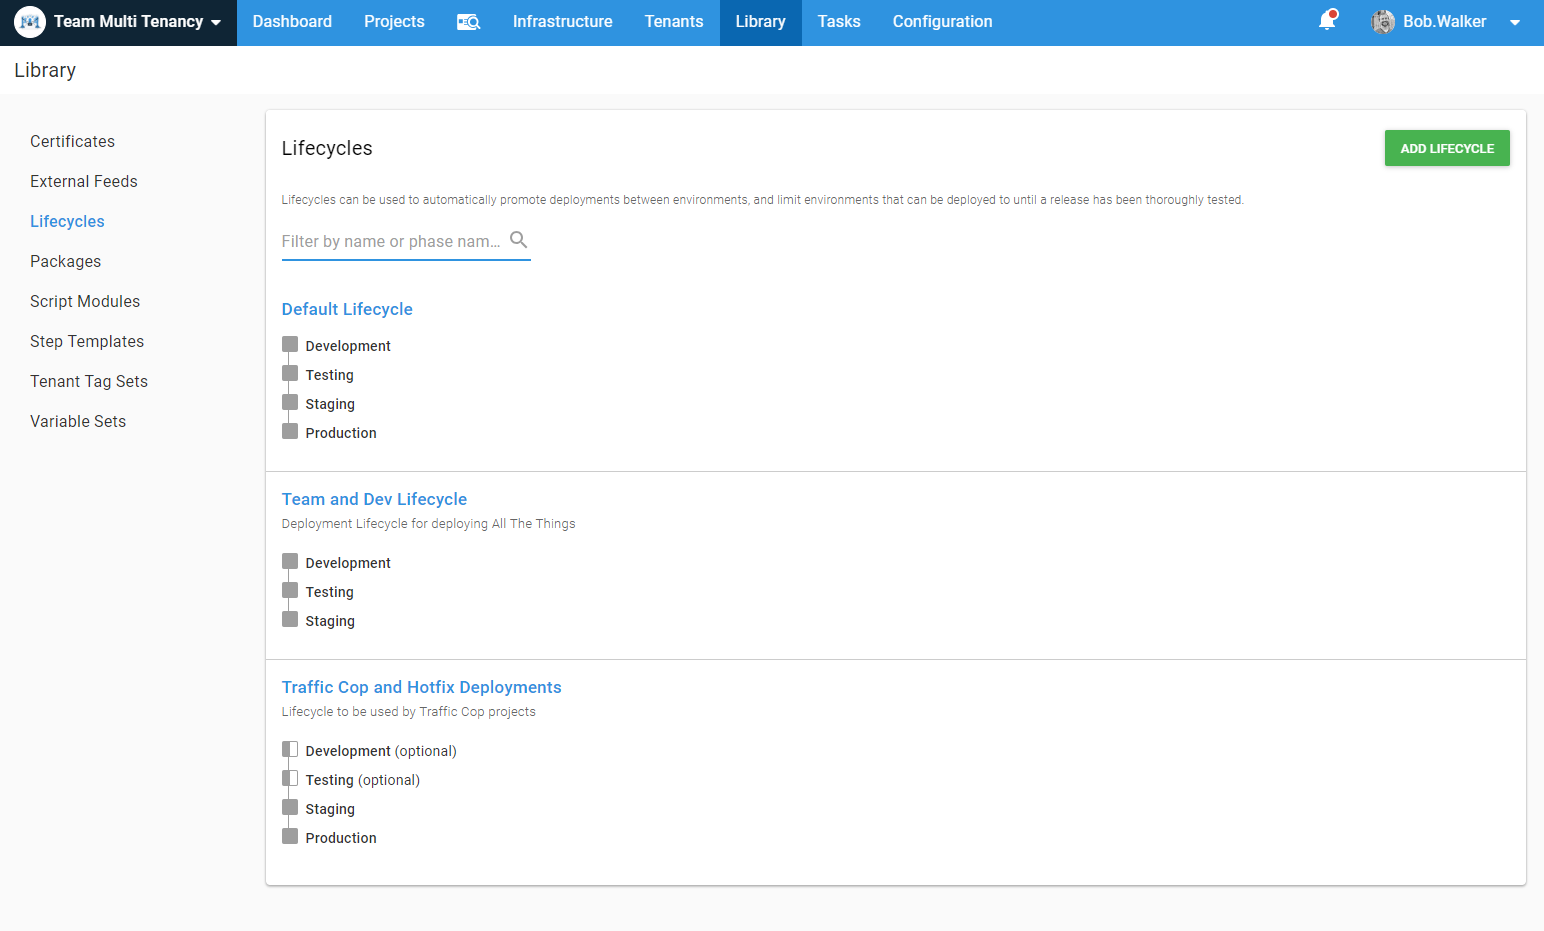
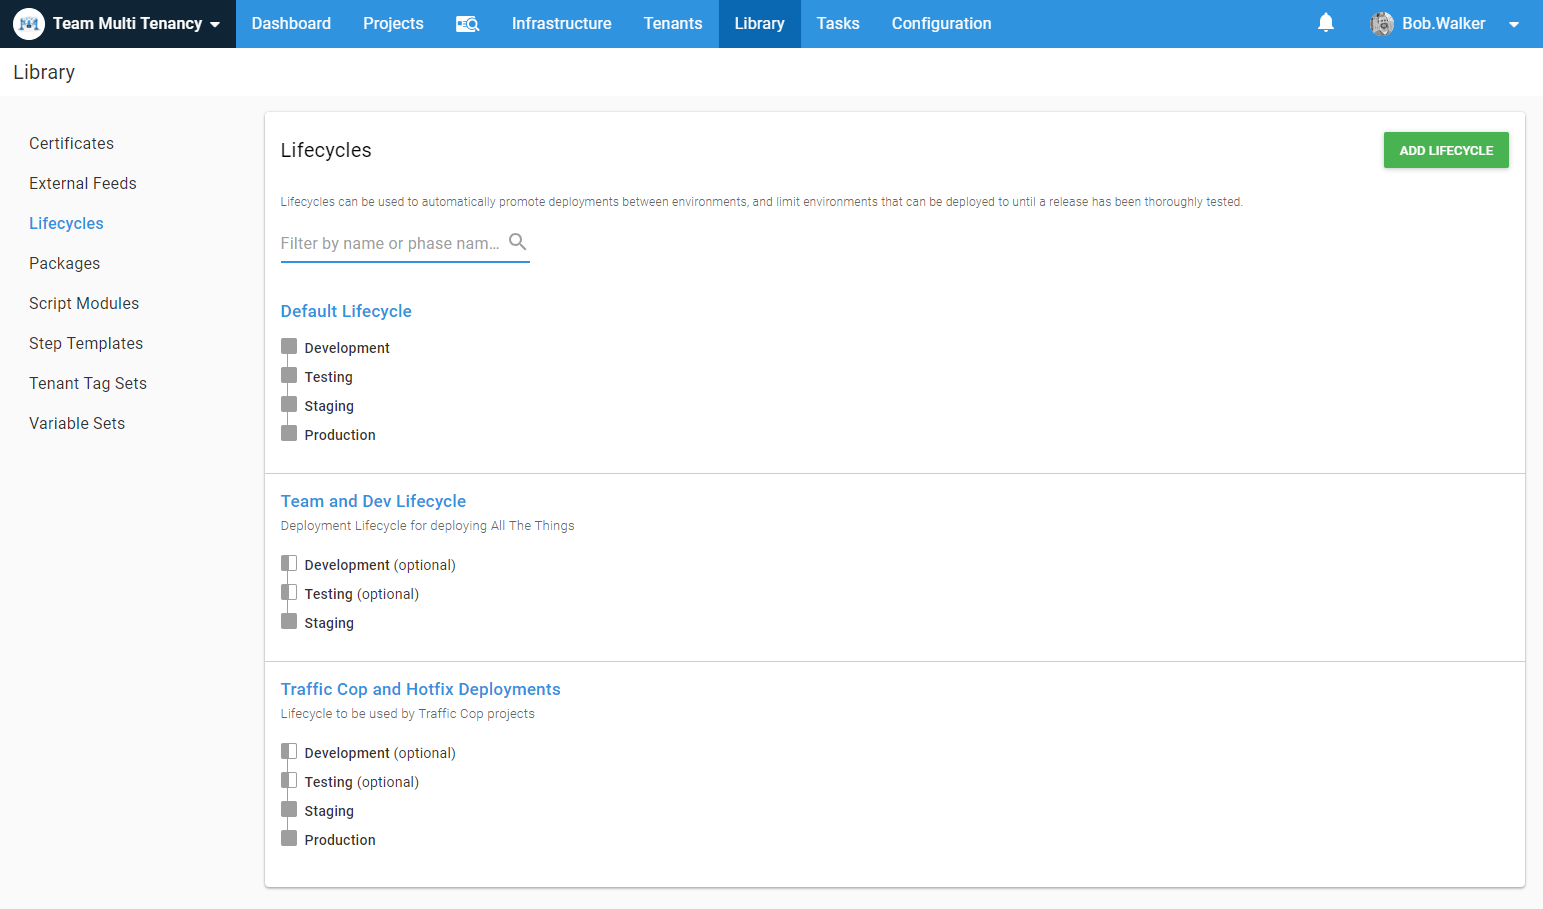
Second draft

diff --git a/blog/2019-04/multi-tenancy-teams/index.md b/blog/2019-04/multi-tenancy-teams/index.md
@@ -10,7 +10,7 @@ tags:
  - Multi-Tenancy
 ---
 
-Recently I had a chance to meet with a customer to talk about their development and deployment process.  Full disclosure: I'm going to paraphrase the meeting a bit, so my apologies to them if I grossly simplify their concerns.  The customer had a common scenario.  They have three teams of developers and four "main" applications.  There are some dependencies between the four main applications.  Application A might call Application B which calls Application C and so on.  There isn't a clear "line in the sand" on which team can work on which application.  At any given point, two teams might be working on the same application.  For example:
+Recently I had a chance to meet with a customer to talk about their development and deployment process.  Full disclosure: I'm going to paraphrase the meeting a bit, my apologies to them if they are reading this and if I grossly simplify their concerns.  They have three teams of developers and four "main" applications.  There are some dependencies between the four main applications.  Application A might call Application B which calls Application C and so on.  There isn't a clear "line in the sand" on which team can work on which application.  At any given point, two teams might be working on the same application.  For example:
 
 - Team A is adding a new feature to Application A
 - Team B is making some bug fixes to Application A
@@ -18,9 +18,9 @@ Recently I had a chance to meet with a customer to talk about their development 
 
 Their concern was how Team A could push up changes to Application A for their QA engineers to test and business owners to verify without stepping all over Team B's work.  As an added kicker, how can Team C make changes to their application without stopping Team B from pushing a set of bug fixes through?
 
-I ran into this scenario multiple times at different jobs before working at Octopus Deploy.  The tooling, and the collective lack of knowledge, at the time, led to some, let's say, unusual solutions.  Team C was told that whatever changes they made had to be backwards compatible from the start.  Hide it behind a feature flag if you must.  You cannot stop work for Teams A and B.  Team A was told to hold off pushing their changes until Team B had finished their work.  That is just three teams.  I've worked for companies with 10+ development teams.  Imagine trying to juggle all that!
+I ran into this scenario multiple times at different jobs before working at Octopus Deploy.  At the time, the tooling, and the collective lack of knowledge, led to some, let's say, unusual solutions.  Team C was told that whatever changes they made had to be backwards compatible.  Hide it behind a feature flag if you must.  You cannot stop work for Teams A and B.  Team A was told to hold off pushing their changes until Team B had finished their work.  Depending on how long that took, Team A might try to sneak in a few minor changes as well, outside the scope of their feature.  That is just three teams.  I've worked for companies with 10+ development teams.  Imagine trying to juggle all that!
 
-The final kicker is sometimes a developer will be working on a spike or another change, and they want to get feedback from someone.  This feedback could come from another developer, or it could come from a business owner.  In the past when I did this, I had the developer and/or business owner connect directly to my machine.  Connecting directly to my machine was a significant pain on my end as I could be in the middle of tweaking something else and the code might not be in a usable state.  It would've been nice to have someplace I could push the change without breaking everyone.
+The final kicker is sometimes a developer will be working on a spike or another change, and they want to get feedback from someone.  This feedback could come from another developer, or it could come from a business owner.  In the past when I did this, I had the developer and/or business owner connect directly to my machine.  Connecting directly to my machine was a significant pain for me as I could be in the middle of tweaking something else and the code might not be in a usable state.  It would've been nice to have someplace I could push to a development server.  At the time if I did that it would go up to the "main" development server and potentially break things.  
 
 A much more ideal solution is each team, as well as developers, get their own "sandbox" hosting all of the applications.  
 
@@ -29,25 +29,33 @@ A much more ideal solution is each team, as well as developers, get their own "s
 - Team A and B are not aware of Team C's changes because they are pointing to their own copy of Application B.  
 - Once Team C's changes have been verified, then Teams A and B will need to update their sandbox to get the latest and greatest changes.
 
-In this article, I am going to walk you through how to configure that using the multi-tenancy feature in Octopus Deploy.
+In this article, I am going to walk you through how to configure a private testing sandbox for teams and developers using the [multi-tenancy feature](https://octopus.com/multi-tenant-deployments) in Octopus Deploy.
 
 **Please Note:** You have to have your entire deployment process automated for this to work.  You can't have your code (C#/JS/TS/PHP/etc.) being deployed through Octopus Deploy while your databases are deployed manually.  
+
+!toc
 
 ## Configuring Octopus Deploy
 
 Before diving into the configuration, let's take a step back and look at some use cases.  Hopefully, at the end of the article, we meet all of them.  
 
 - As a developer, I want to be able to make and push changes to Application B without affecting the work of other teams working on Application A.
-- As a developer working on Application A, I want to be able to pull changes made to Application B in once they are completed and verified.
+- As a developer working on Application A, I want to be able to pull changes made to Application B once they are completed and verified.
 - As a developer, I always want to be able to test what is currently in production in a non-production environment.
 - As a developer, I want to be able to make changes and push them up for verification from a business owner without affecting my team.
 - As a developer on Application A, I want to know what version of Application B I am connecting to and testing against.
 - As a developer, I want to be able to push a hotfix directly to staging without having to go through development or testing first.
 - As a developer, I want to be able to push my team's changes to a testing area where customers can provide feedback.  Getting customer feedback isn't going to happen all the time, but I would like that opportunity.
 
+As stated earlier, we are going to use Octopus Deploy's [multi-tenancy feature](https://octopus.com/multi-tenant-deployments) to solve this.  I chose this solution over creating seperate environments for teams and developers for a few reasons.
+
+1) When you add a new environment you don't know all the variables you need to configure.  With Octopus Deploy's multi-tenancy feature there is a concept of variable templates.  If a tenant is missing a variable there is an indicator in the UI.
+2) It keeps the lifecycle simple.  I am in the camp that any given instance of Octopus Deploy should have 10 or less environments.  
+3) It can scale up as the teams and developers grow.  When someone new starts I can add them as a tenant and get a testing sandbox configured for them in minutes.
+
 ## Tenant Tags
 
-I am going to create a tenant tag set called `Tenant Type` for grouping and organizational purposes.  Based on my use cases, I am going to need three tags in the `Tenant Type` tag set.
+I am going to create a tenant tag set called `Tenant Type` for grouping and organizational purposes.  Based on the use cases, I am going to need three tags in the `Tenant Type` tag set.
 
 - Release (main or master and hotfix)
 - Teams (for the team to test with)
@@ -61,21 +69,21 @@ For my instance, I have two variable sets.  `Global` is to be used across all th
 
 ![](variable-sets.png)
 
-I am going to host all my tenants on the same SQL Server and Web Server used in each environment.  I have one web server for `Development` and two web servers in the `Testing` environments.  That single `Development` web server will host not only the main website but also all my tenant websites.  Each tenant will get their subdomain.  The naming convention I am going to use for tenants assigned to the Teams or Person `Tenant Type` will be [EnvironmentShortName][TenantShortName][ApplicationName].OctopusDemos.com.  For Bob's copy of the OctoFx application in Development, the name will be DevBobOctoFx.OctopusDemos.com.  For release `Tenant Type` the naming convention will be [EnvironmentShortName][ApplicationName].OctopusDemos.com.  The master version of OctoFx in Development will be DevOctoFx.OctopusDemos.com.
+Each environment has their own SQL Server and web servers.  I am going to host my tenants on those servers.  Each tenant will get their subdomain.  The naming convention I am going to use for tenants assigned to the Teams or Person `Tenant Type` will be [EnvironmentShortName][TenantShortName][ApplicationName].OctopusDemos.com.  For example, for Bob's copy of the OctoFx application in Development, the name will be DevBobOctoFx.OctopusDemos.com.  For the release `Tenant Type` the naming convention will be [EnvironmentShortName][ApplicationName].OctopusDemos.com.  The master version of OctoFx in Development will be DevOctoFx.OctopusDemos.com.
 
 I am using the same SQL for both Dev and Testing, so my database names will be rather odd looking at first.  [EnvironmentPrefix]-[TenantShortName]-[ApplicationName] for tenants assigned to the Teams or Person `Tenant Type`.  Bob's copy of the OctoFx database in `Development` would be `d-Bob-OctoFx`.  Tenants assigned to the Release `Tenant Type` will be [EnvironmentPrefix]-[ApplicationName].  The master version of OctoFx in `Development` will be `d-octofx`.
 
-First I am going to create a variable in Global to store the environment short name as well as the environment prefix variable.  
+First I am going to create a couple of variables in Global to store the environment short name as well as the environment prefix variable.  
 
 ![](environment-short-name-global-variable.png)
 
-**Please Note:** I like to use the naming scheme [VariableSet].[Component].[Name] to name my variables.  The naming scheme makes them easier to find when trying to reference them.  Moreover, when looking at all variables for a project, they group a lot better.
+**Please Note:** I like to use the naming scheme [VariableSet].[Component].[Name].  It makes them easier to find when trying to reference them.  Moreover, when looking at all variables for a project, they are easier to find.
 
 Then I am going to jump over to the `Variable Templates` tab and add a new template.  I will need to populate this when I create my tenants and assign them to the projects.
 
 ![](variable-sets-templates.png)
 
-Now I can jump back over variables tab and add two variables, one for the subdomain name and another for the database name.  You can scope variables to tenant tags.
+Now I can jump back over variables tab and add two variables, one for the subdomain name and another for the database name.  You can scope variables to tenant tags.  Make note that I am only scoping one variable to the `Tenant Type` tenant tag.  This is because I want any "normal" release to have the same naming convention, even if the project isn't using tenants.
 
 ![](variable-set-with-scoped-variables.png)
 
@@ -145,11 +153,11 @@ Now is as good as time as any to discuss branching strategies.  The branching st
 - Team Branch ([TeamName]/*): Can only go to Development -> Testing -> Staging.  This branch will have a pre-release tag appended to the package name.
 - Developer Branch ([DeveloperName]/*): Can only go to Development -> Testing.  This branch will have a pre-release tag appended to the package name.
 
-In Octopus Deploy I created the following lifecycles.
+In Octopus Deploy I created the following lifecycles.  The Team and Dev Lifecycle has the `Development` and `Testing` environment set as optional.  This is to give the freedom to pick and choose which environments are updated.
 
 ![](lifecycles-overview.png)
 
-In each project, I added the following channels.
+Each project will have a the following channels to support the various use cases.
 
 ![](channeloverview.png)
 
@@ -328,8 +336,32 @@ So if Derek wanted to bring it over, we would first change the release to my rel
 
 ![](octopusdeploy-derek-bringing-in-release.png)
 
+## Standing up an entire sandbox
+
+So far we have been focused on a single application, OctoFx.  I'm willing to bet you have more than one application in your development shop.  To solve for that, I created a project called `Deploy All The Things`.  The project's lifecycle only allows it to go to staging.  It is intended to be used by tenants with the Person or Team `Tenant Type` tenant tag.  
+
+![](deploy-all-the-things.png)
+
+Right now it is only deploying OctoFx.  In the future it can deploy other applications, and in the order they need to be deployed.
+
+![](deploy-all-the-things-process.png)
+
+One note about the deploy a release step, when you create a release that is when you choose the release version of the child projects.  It is entirely possible with this project to have a release only be deployed to a single tenant on an environment.  
+
+![](deploy-all-the-things-select-release.png)
+
 ## Conclusion
 
-It takes a bit of setup, but it is possible to configure Octopus Deploy, so each team and each developer have their own sandbox to deploy to.  Having a separate sandbox will allow teams and developers to get feedback on in-progress work without having to step all over the main code base.
+It takes a bit of setup, but it is possible to configure Octopus Deploy, so each team and each developer have their own sandbox to deploy to.  Having a separate sandbox will allow teams and developers to get feedback on in-progress work without having to step all over the main code base.  Let's go through the use cases one more time to make sure we solved them.
 
-One final thought, I included a hotfix tenant.  You don't have to include that.  I did that because the customer I was talking to had a separate "hotfix" subdomain in their staging environment.  It made sense for them.  It might not make sense for you.  I would encourage you to test this out for yourself and tweak the process to meet your needs.
+- As a developer, I want to be able to make and push changes to Application B without affecting the work of other teams working on Application A. -> Solved, each team has their own sandbox.  The team working on Application B would push to their sandbox for testing.
+- As a developer working on Application A, I want to be able to pull changes made to Application B once they are completed and verified. -> Solved, the teams can wait until the changes are merged into a release branch and pushed up to the main tenant or they can choose the release created for the tenant and pull that into their sandbox.
+- As a developer, I always want to be able to test what is currently in production in a non-production environment. -> Solved, the main tenant in the non-production environments will only be changed once a feature has been verified in a team sandbox.  The amount of time a change sits in the lower environments on a main tenant should be low since it has already been tested.
+- As a developer, I want to be able to make changes and push them up for verification from a business owner without affecting my team. -> Solved, each developer gets their own tenant, which means they get their own sandbox.
+- As a developer on Application A, I want to know what version of Application B I am connecting to and testing against. -> Solved, each team and developer have full control over what version is in their sandbox.
+- As a developer, I want to be able to push a hotfix directly to staging without having to go through development or testing first. -> Solved, with the channels and hotfix tenant it is possible to push a change directly to staging.
+- As a developer, I want to be able to push my team's changes to a testing area where customers can provide feedback.  Getting customer feedback isn't going to happen all the time, but I would like that opportunity. -> Solved, any tenant with the Team `Tenant Type` has the ability to push to staging.
+
+One final thought about the hotfix tenant.  You don't have to include that.  I did that because the customer I was talking to had a separate "hotfix" subdomain in their staging environment.  It made sense for them.  It might not make sense for you.  I would encourage you to test this out for yourself and tweak the process to meet your needs.
+
+Until next time, Happy Deployments!
